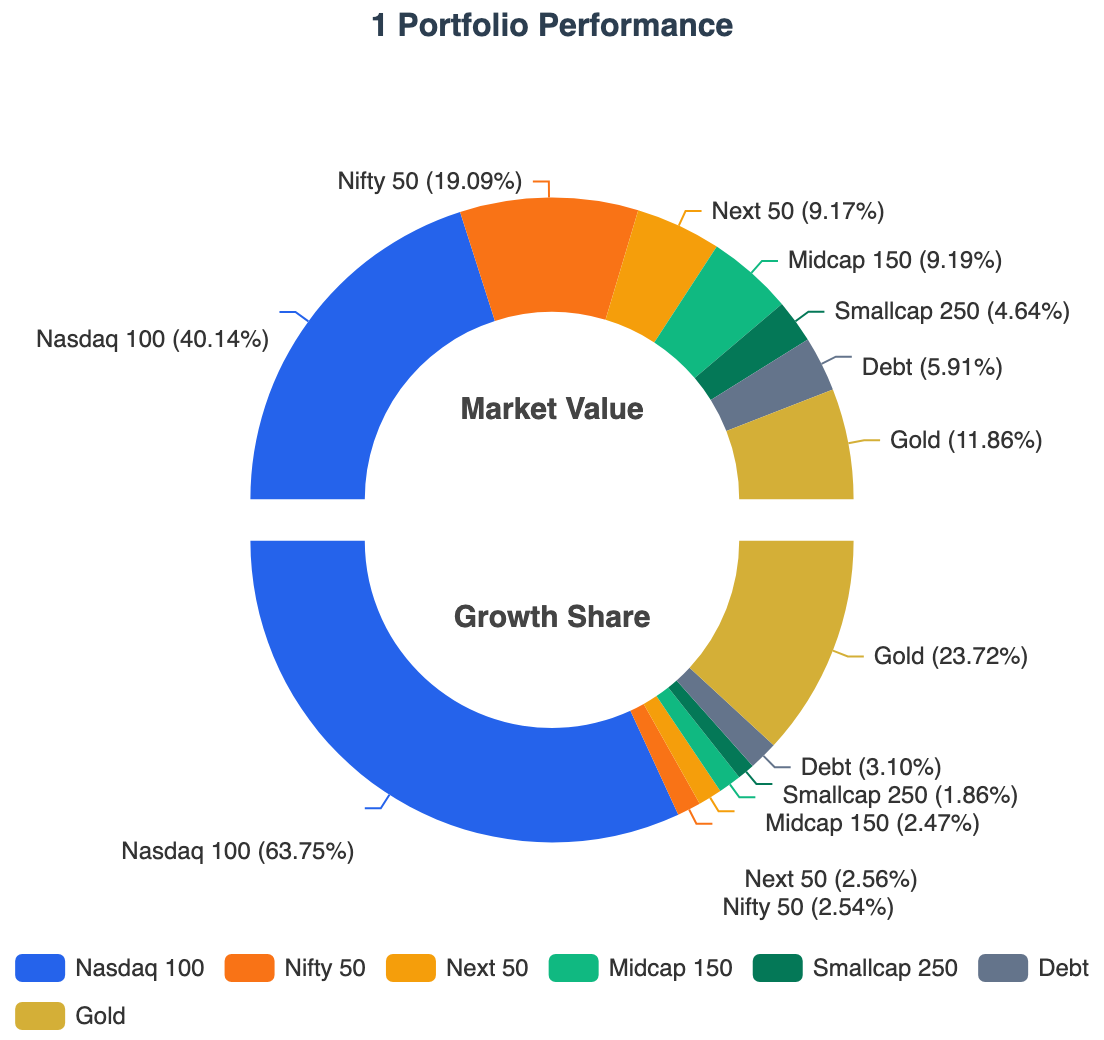
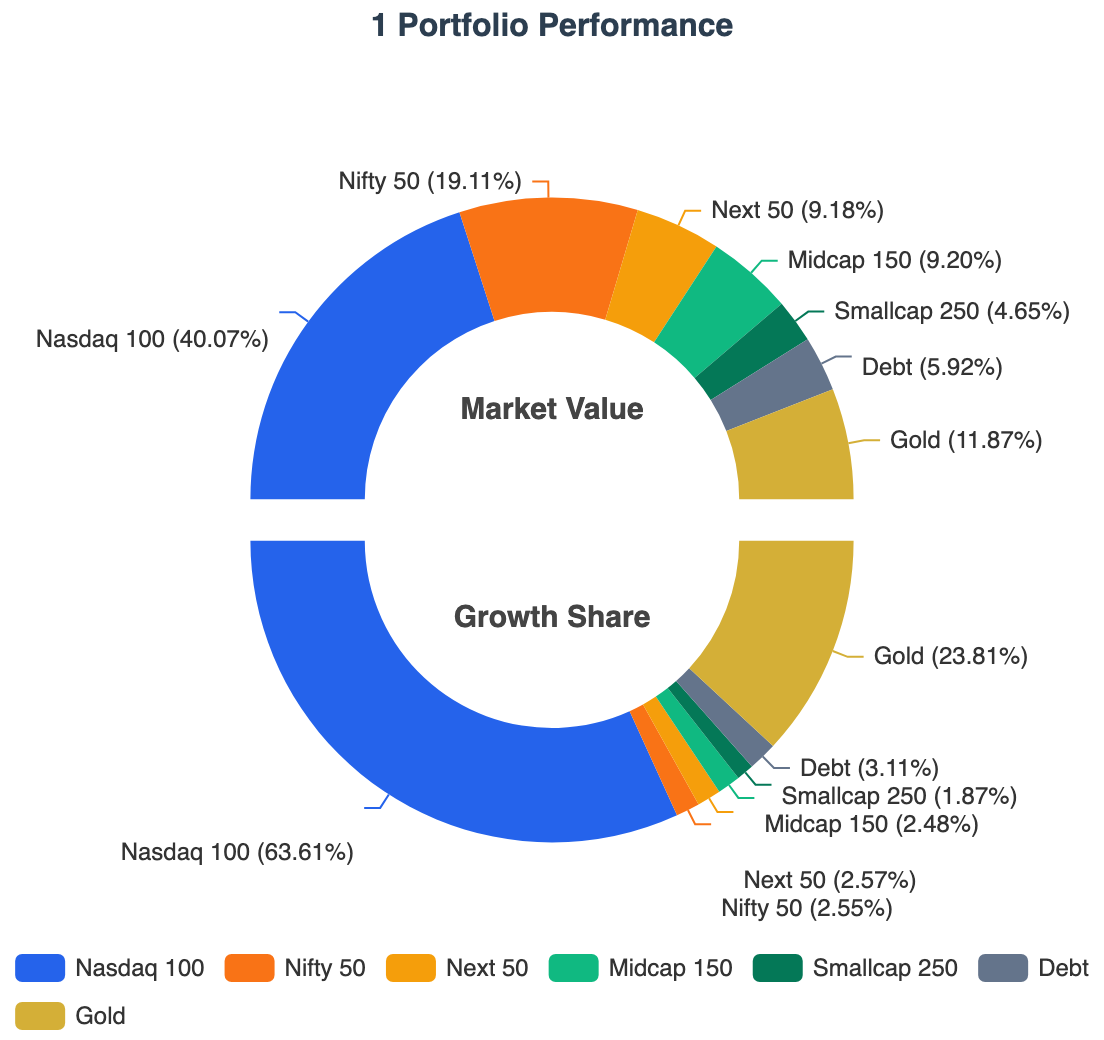
Saving WIP

diff --git a/content/building-wealth/blogs/2026/st1p-june/index.md b/content/building-wealth/blogs/2026/st1p-june/index.md
@@ -38,17 +38,17 @@ Following is the current state of the **1 Portfolio**.
 
 | Asset Class      |       XIRR | Growth Share | Current Allocation <br/><small>(on June 5, 2026)</small> | Target Allocation <br/><small>(for TY 2026-27)</small> |                                   Drift |
 | :--------------- | ---------: | -----------: | -------------------------------------------------------: | -----------------------------------------------------: | --------------------------------------: |
-| **Nasdaq 100**   |     40.14% |       63.75% |                                                   40.14% |                                                 40.00% | <span style="color:green">+0.14%</span> |
-| **Nifty 50**     |      2.14% |        2.54% |                                                   19.09% |                                                 20.00% |   <span style="color:red">-0.91%</span> |
-| **Next 50**      |     26.20% |        2.56% |                                                    9.17% |                                                 10.00% |   <span style="color:red">-0.83%</span> |
-| **Midcap 150**   |     24.54% |        2.47% |                                                    9.19% |                                                 10.00% |   <span style="color:red">-0.81%</span> |
-| **Smallcap 250** |     43.24% |        1.86% |                                                    4.64% |                                                  5.00% |   <span style="color:red">-0.36%</span> |
-| **Debt**         |      7.12% |        3.10% |                                                    5.91% |                                                  5.00% | <span style="color:green">+0.91%</span> |
-| **Gold**         |     41.81% |       23.72% |                                                   11.86% |                                                 10.00% | <span style="color:green">+1.86%</span> |
-| **Total**        | **21.73%** |  **100.00%** |                                              **100.00%** |                                            **100.00%** |                               **2.91%** |
+| **Nasdaq 100**   |     40.07% |       63.61% |                                                   40.07% |                                                 40.00% | <span style="color:green">+0.07%</span> |
+| **Nifty 50**     |      2.14% |        2.55% |                                                   19.11% |                                                 20.00% |   <span style="color:red">-0.89%</span> |
+| **Next 50**      |     26.20% |        2.57% |                                                    9.18% |                                                 10.00% |   <span style="color:red">-0.82%</span> |
+| **Midcap 150**   |     24.54% |        2.48% |                                                    9.20% |                                                 10.00% |   <span style="color:red">-0.80%</span> |
+| **Smallcap 250** |     43.24% |        1.87% |                                                    4.65% |                                                  5.00% |   <span style="color:red">-0.35%</span> |
+| **Debt**         |      7.12% |        3.11% |                                                    5.92% |                                                  5.00% | <span style="color:green">+0.92%</span> |
+| **Gold**         |     41.81% |       23.81% |                                                   11.87% |                                                 10.00% | <span style="color:green">+1.87%</span> |
+| **Total**        | **21.67%** |  **100.00%** |                                              **100.00%** |                                            **100.00%** |                               **2.86%** |
 
 
-- *Growth Share represents the percentage contribution of each asset class to the portfolio’s total gains*
+- Growth Share represents the percentage contribution of each asset class to the portfolio’s total gains
 - This snapshot is taken post monthly investment
 - The portfolio is currently in the 8-figure INR range
 - Next 50, Midcap 150, Smallcap 250 show higher XIRR because of recent [hard rebalancing](/building-wealth/slides/red-days-productive-days-portfolio-reset/).
@@ -78,9 +78,9 @@ Following is the current state of the **1 Portfolio**.
 
 ### Key Performance Drivers
 
-- **Concentrated Growth**: The Nasdaq 100 is the undisputed powerhouse of the portfolio. Slightly overweight currently, it accounts for 63.75% of the total growth share. Phenomenal growth in past month. Seems [the allocator](/building-wealth/tools/realvalue-family-sip-allocator/) will stop me investing into it sooner.
-- **Gold Outperformance**: Gold has significantly exceeded expectations with a 41.81% XIRR, still with the largest positive drift in the portfolio (+1.89%).
-- **Domestic Lag**: The Nifty 50 remains the primary laggard with an XIRR of only 2.14%, contributing just 2.54% to the overall growth share despite being the second-largest allocation. All 4 Nifty indexes contributed just 9.43% of growth share compared to current market value of 42.09%
+- **Concentrated Growth**: The Nasdaq 100 is the undisputed powerhouse of the portfolio. Nearly at target allocation now (+0.07% drift), it accounts for **63.61%** of the total growth share. Phenomenal growth in the past month. It appears [the allocator](/building-wealth/tools/realvalue-family-sip-allocator/) will stop directing new investments to it very soon.
+- **Gold Outperformance**: Gold has significantly exceeded expectations with a **41.81% XIRR**, and still carries the largest positive drift in the portfolio (**+1.87%**).
+- **Domestic Lag**: The Nifty 50 remains the primary laggard with an XIRR of only **2.14%**, contributing just **2.55%** to the overall growth share despite being the second-largest allocation. All four Indian equity indices (Nifty 50, Next 50, Midcap 150, and Smallcap 250) contributed just **9.47%** of total growth share compared to their current combined allocation of **42.14%**.
 
 > In a globally diversified portfolio, performance leadership rotates continuously.
 > The objective is not to predict the next winner, but to systematically rebalance capital toward undervalued assets.